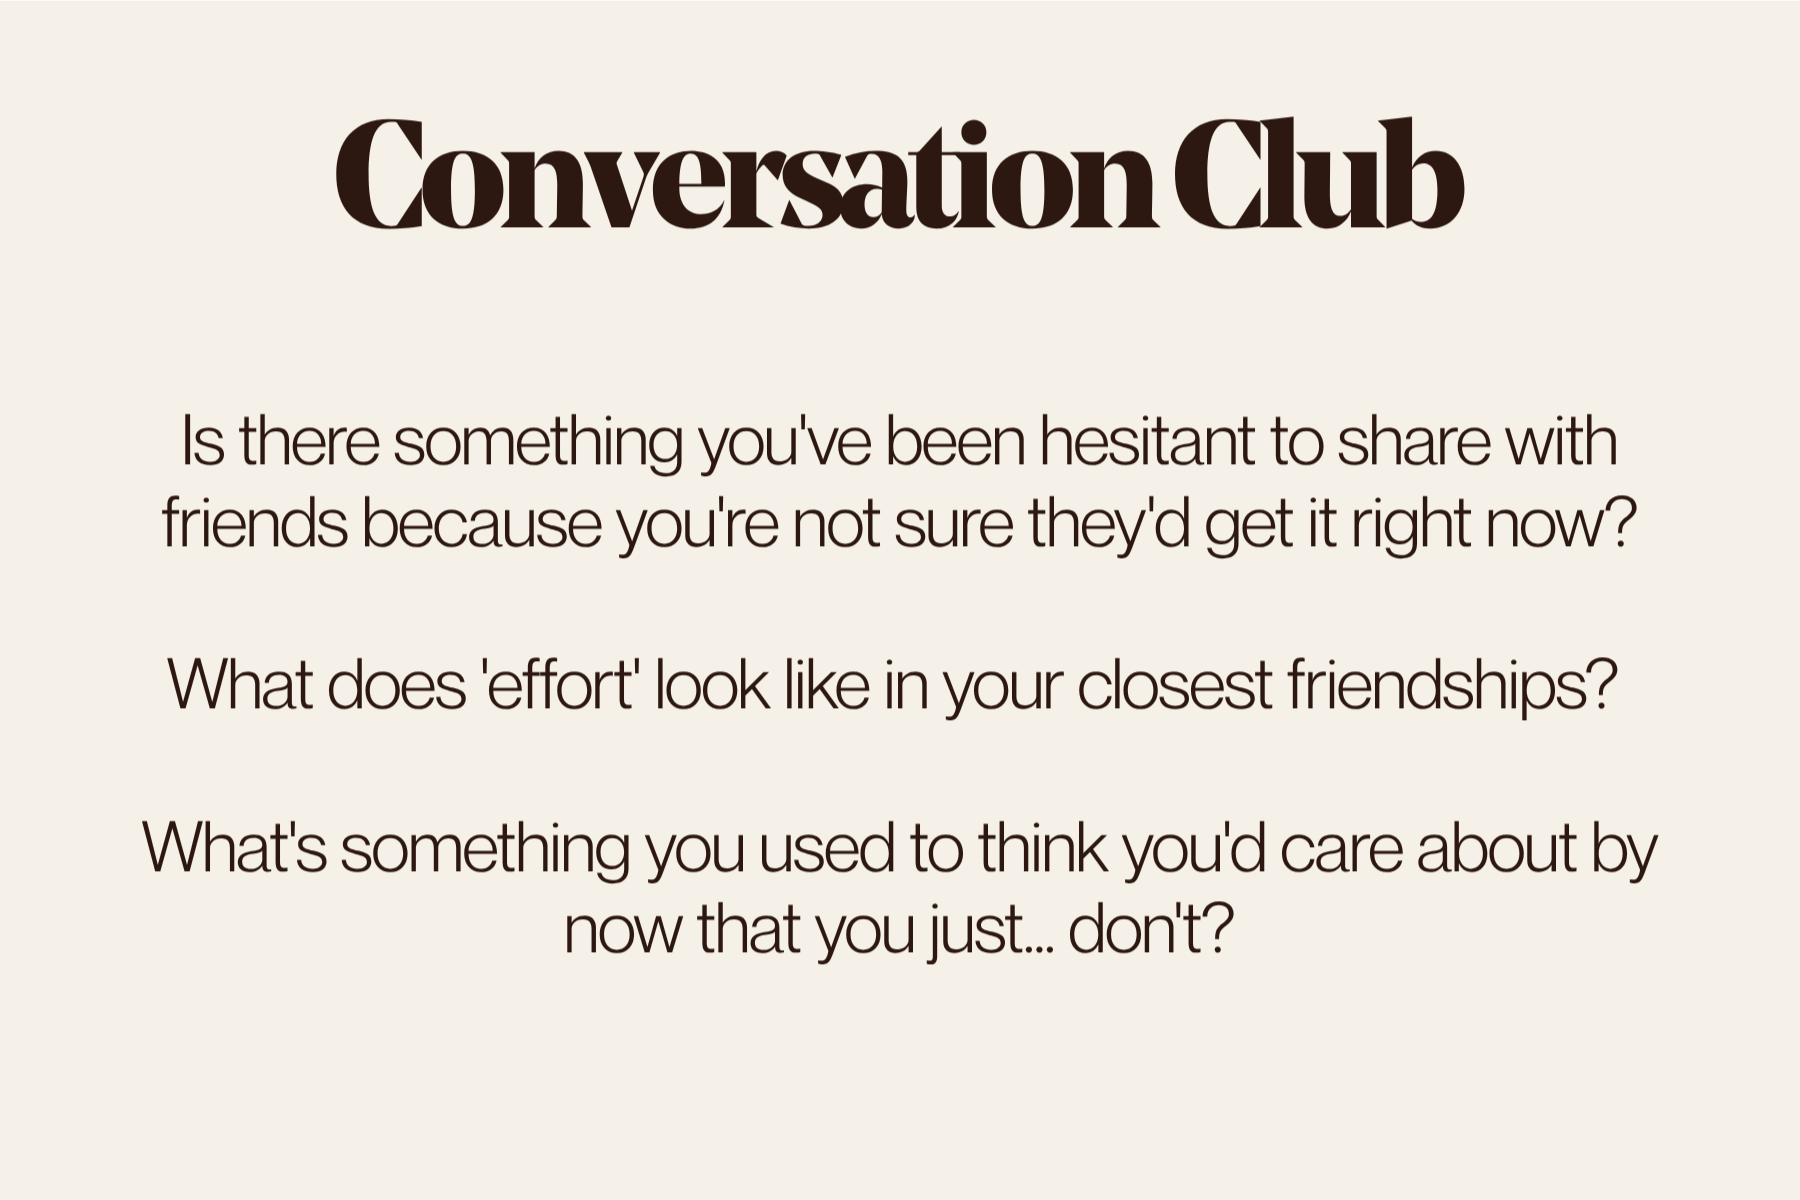
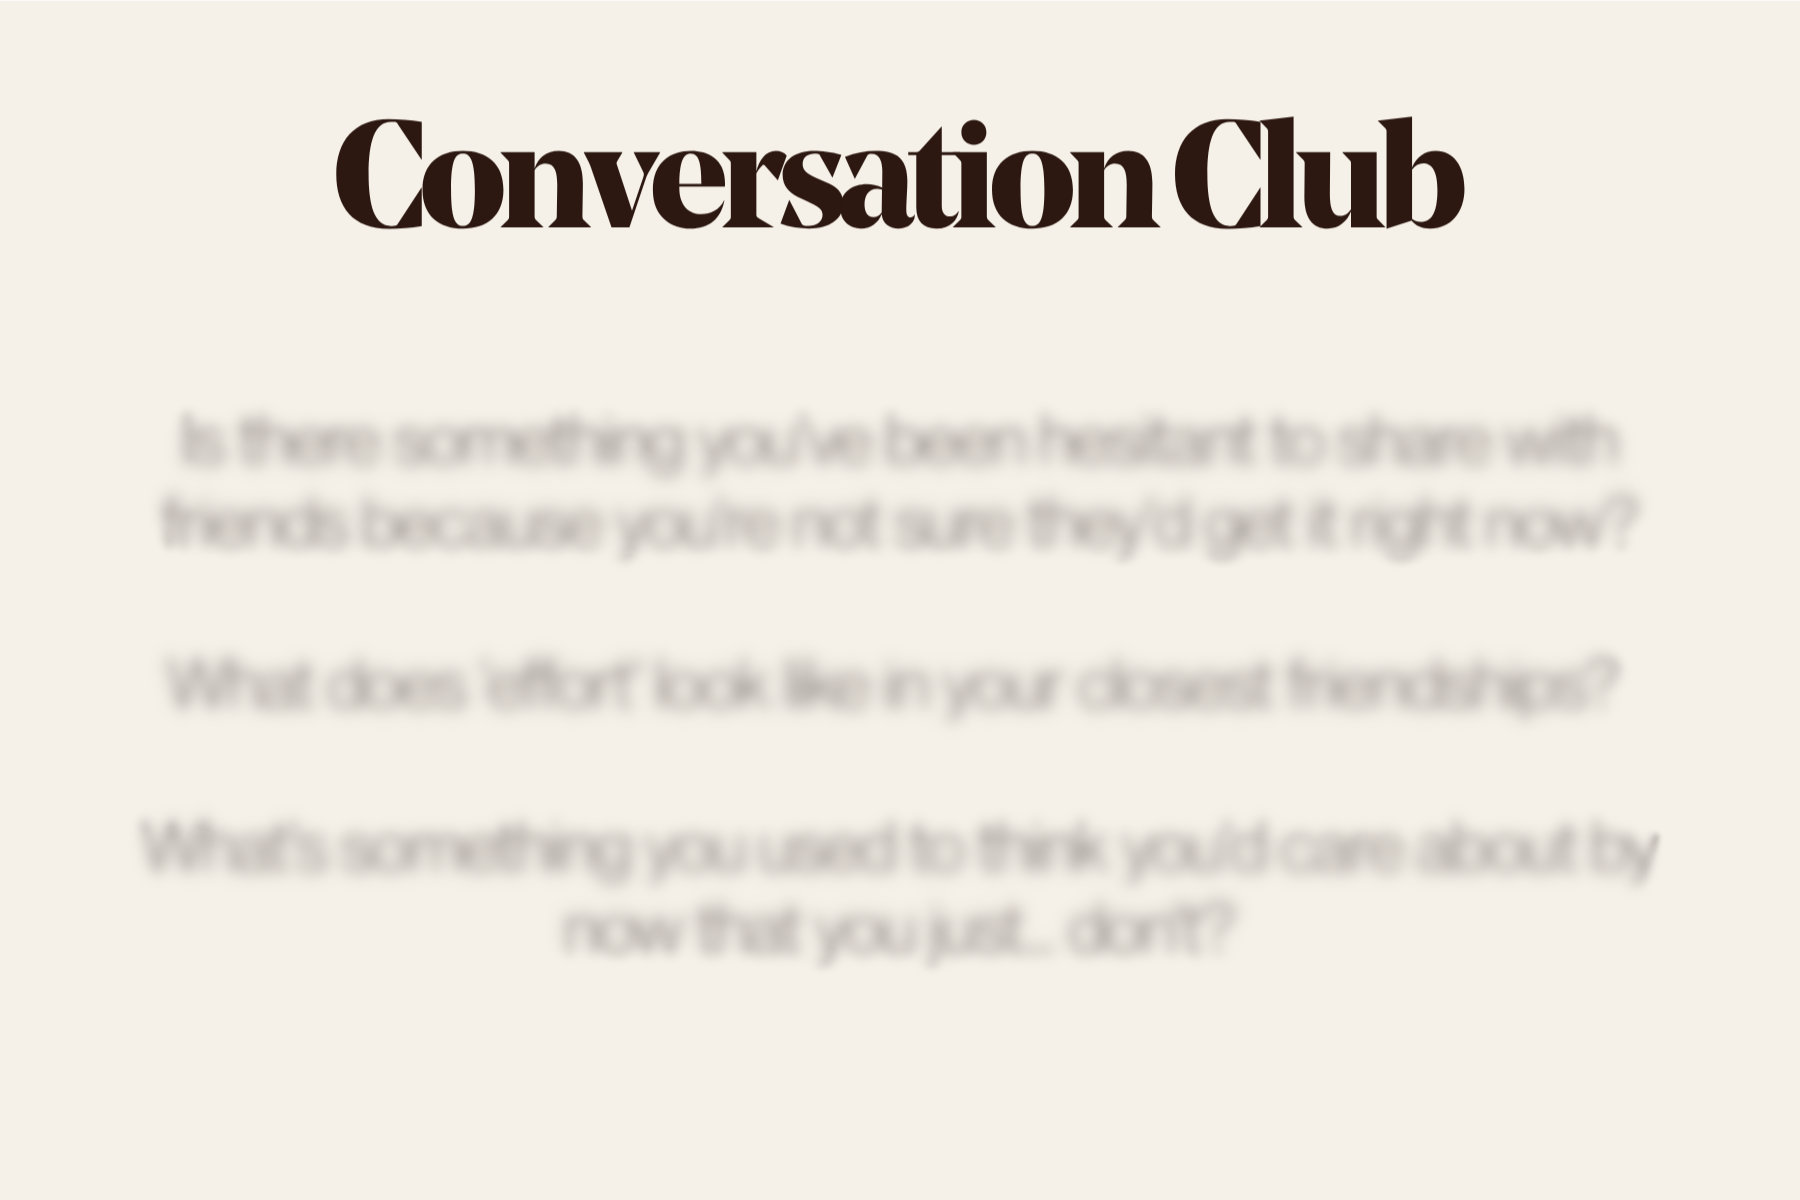
Reorder product images, slow animation, plum idea section, fix eyebrow color
- Letter on left, conversation card front+back on right
- Removed 'The Prompts' label — just 'The Conversation Card'
- Slowed rotation animation to 2.5s cycle (gentle seesaw)
- 'Why I Started This' section now has plum background with ivory text
- 'What Shows Up' eyebrow color changed to plum for readability on stone
- Updated product images from Conversation Card Motion folder

Changed region(s): [[0.0933, 0.3392, 0.9333, 0.4625], [0.0622, 0.6783, 0.9333, 0.8017], [0.0933, 0.5242, 0.9022, 0.6167]]

diff --git a/components/product-preview.tsx b/components/product-preview.tsx
@@ -6,8 +6,8 @@ export function ProductPreview() {
       className="section-band section-band-product section-gap text-center"
     >
       <div className="section-inner">
-        <div className="mx-auto max-w-[48rem]">
-          <p className="eyebrow">What shows up</p>
+        <div className="mx-auto max-w-[56rem]">
+          <p className="eyebrow" style={{ color: "var(--color-plum)" }}>What shows up</p>
 
           <h2 className="section-title mx-auto mt-4 max-w-[48rem]">
             An essay. A question.
@@ -18,38 +18,42 @@ export function ProductPreview() {
             Everything arrives in an envelope designed to feel like it matters.
           </p>
 
-          {/* Product images */}
-          <div className="mx-auto mt-12 flex max-w-[48rem] flex-col items-center gap-10 sm:flex-row sm:items-start sm:justify-center">
-            <div className="product-image-rotate w-full max-w-[14rem]" style={{ animationDelay: "0s" }}>
-              <img
-                src="/images/conversation-cards.png"
-                alt="Conversation Cards"
-                className="w-full"
-              />
-              <p className="mt-3 text-[0.9375rem] text-[var(--color-plum)]" style={{ fontFamily: "var(--font-brand)" }}>
-                The Conversation Card
-              </p>
-            </div>
-
-            <div className="product-image-rotate w-full max-w-[14rem]" style={{ animationDelay: "0.15s" }}>
-              <img
-                src="/images/letter.png"
-                alt="The Letter"
-                className="w-full"
-              />
+          {/* Product images — letter left, conversation card front+back right */}
+          <div className="mx-auto mt-12 flex max-w-[48rem] flex-col items-center gap-10 sm:flex-row sm:items-start sm:justify-center sm:gap-12">
+            {/* The Letter */}
+            <div className="w-full max-w-[16rem]">
+              <div className="product-image-rotate" style={{ animationDelay: "0s" }}>
+                <img
+                  src="/images/letter.png"
+                  alt="The Letter"
+                  className="w-full"
+                />
+              </div>
               <p className="mt-3 text-[0.9375rem] text-[var(--color-plum)]" style={{ fontFamily: "var(--font-brand)" }}>
                 The Letter
               </p>
             </div>
 
-            <div className="product-image-rotate w-full max-w-[14rem]" style={{ animationDelay: "0.3s" }}>
-              <img
-                src="/images/conversation-cards-2.png"
-                alt="Conversation Card prompts"
-                className="w-full"
-              />
+            {/* The Conversation Card — front and back */}
+            <div className="w-full max-w-[20rem] sm:max-w-[24rem]">
+              <div className="flex gap-4 sm:gap-6">
+                <div className="product-image-rotate flex-1" style={{ animationDelay: "0.2s" }}>
+                  <img
+                    src="/images/conversation-cards.png"
+                    alt="Conversation Card front"
+                    className="w-full"
+                  />
+                </div>
+                <div className="product-image-rotate flex-1" style={{ animationDelay: "0.4s" }}>
+                  <img
+                    src="/images/conversation-cards-2.png"
+                    alt="Conversation Card back"
+                    className="w-full"
+                  />
+                </div>
+              </div>
               <p className="mt-3 text-[0.9375rem] text-[var(--color-plum)]" style={{ fontFamily: "var(--font-brand)" }}>
-                The Prompts
+                The Conversation Card
               </p>
             </div>
           </div>

diff --git a/app/globals.css b/app/globals.css
@@ -275,7 +275,25 @@ body {
 }
 
 .section-band-idea {
-  background: var(--color-ivory);
+  background: var(--color-plum);
+  color: var(--color-ivory);
+}
+
+.section-band-idea .eyebrow {
+  color: var(--color-gold);
+}
+
+.section-band-idea .section-title {
+  color: var(--color-ivory);
+}
+
+.section-band-idea .author-card {
+  background: transparent;
+  border-color: #F5F0E830;
+}
+
+.section-band-idea .author-card:hover {
+  border-color: var(--color-gold);
 }
 
 .section-band-who {
@@ -461,12 +479,12 @@ footer .brand-name {
 /* ── Animations ── */
 
 @keyframes subtle-rotate {
-  0%, 100% { transform: rotate(-2deg); }
-  50% { transform: rotate(2deg); }
+  0%, 100% { transform: rotate(-1.5deg); }
+  50% { transform: rotate(1.5deg); }
 }
 
 .product-image-rotate {
-  animation: subtle-rotate 0.8s ease-in-out infinite;
+  animation: subtle-rotate 2.5s ease-in-out infinite;
 }
 
 /* ── Reduced motion ── */

diff --git a/components/waitlist-flow.tsx b/components/waitlist-flow.tsx
@@ -47,7 +47,7 @@ export function WaitlistFlow() {
               You know that feeling after a really good conversation?
             </h2>
 
-            <div className="mx-auto mt-6 max-w-[48rem] text-[1.0625rem] leading-[1.65] text-[var(--color-espresso)]">
+            <div className="mx-auto mt-6 max-w-[48rem] text-[1.0625rem] leading-[1.65] text-[var(--color-ivory)]" style={{ opacity: 0.88 }}>
               <p>
                 When you drove home still thinking about what somebody said after staying at the table way too long.
               </p>
@@ -68,17 +68,18 @@ export function WaitlistFlow() {
                 className="author-card"
               >
                 <div className="flex-1 text-left">
-                  <p className="text-[0.95rem] text-[var(--color-plum)]" style={{ fontFamily: "var(--font-brand)" }}>
+                  <p className="text-[0.95rem] text-[var(--color-ivory)]" style={{ fontFamily: "var(--font-brand)" }}>
                     Written by Tori Winders
                   </p>
-                  <p className="mt-0.5 text-[0.85rem] text-[var(--color-espresso)]">
+                  <p className="mt-0.5 text-[0.85rem] text-[var(--color-ivory)]" style={{ opacity: 0.7 }}>
                     Writer, optimizer, and someone who thinks way too much about conversation.
                   </p>
                 </div>
                 <svg
                   aria-hidden="true"
                   viewBox="0 0 24 24"
-                  className="h-5 w-5 shrink-0 text-[var(--color-stone)]"
+                  className="h-5 w-5 shrink-0 text-[var(--color-ivory)]"
+                  style={{ opacity: 0.5 }}
                   fill="none"
                   stroke="currentColor"
                   strokeWidth="1.5"